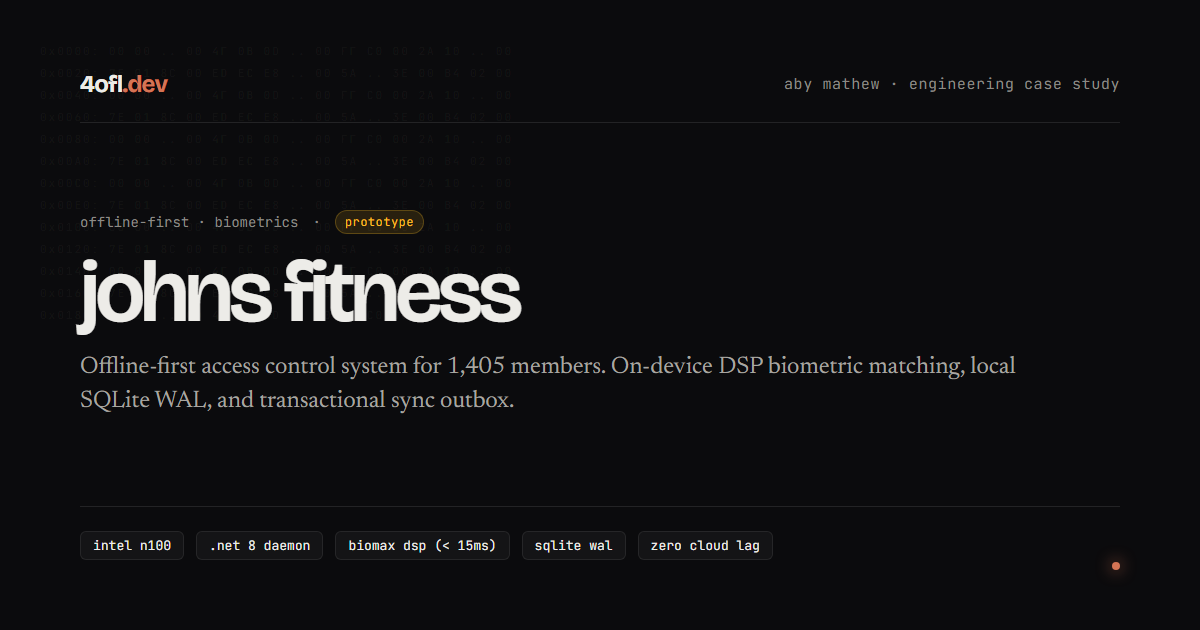
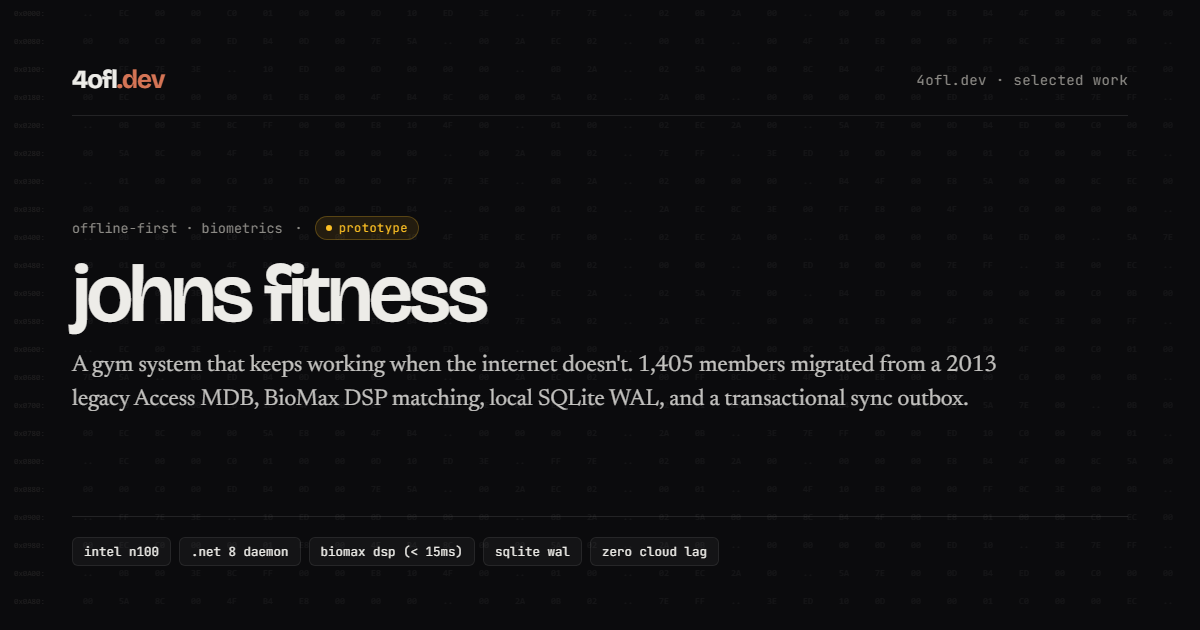
feat: add open graph social card generator and assets

diff --git a/scripts/build-og.js b/scripts/build-og.js
@@ -1,0 +1,313 @@
+const fs = require('fs');
+const path = require('path');
+const { execSync } = require('child_process');
+
+const CHROME_PATHS = [
+  'C:\\Program Files\\Google\\Chrome\\Application\\chrome.exe',
+  'C:\\Program Files (x86)\\Google\\Chrome\\Application\\chrome.exe',
+  path.join(process.env.LOCALAPPDATA || '', 'Google\\Chrome\\Application\\chrome.exe')
+];
+
+const chromePath = CHROME_PATHS.find(p => fs.existsSync(p));
+if (!chromePath) {
+  console.error('Error: Google Chrome executable not found on host machine.');
+  process.exit(1);
+}
+
+const dataFile = path.resolve('data/og-cards.json');
+if (!fs.existsSync(dataFile)) {
+  console.error(`Error: Data file not found at ${dataFile}`);
+  process.exit(1);
+}
+
+const cardsData = JSON.parse(fs.readFileSync(dataFile, 'utf8'));
+
+function renderHtml(itemKey, item) {
+  const isHome = itemKey === 'home';
+  const fontsDir = path.resolve('assets/fonts').replace(/\\/g, '/');
+
+  return `<!doctype html>
+<html>
+<head>
+<meta charset="utf-8">
+<style>
+  @font-face {
+    font-family: 'Bricolage Grotesque';
+    src: url('file:///${fontsDir}/bricolage-grotesque.woff2') format('woff2');
+  }
+  @font-face {
+    font-family: 'JetBrains Mono';
+    src: url('file:///${fontsDir}/jetbrains-mono-400.woff2') format('woff2');
+  }
+  @font-face {
+    font-family: 'Newsreader';
+    src: url('file:///${fontsDir}/newsreader-400.woff2') format('woff2');
+  }
+
+  * { box-sizing: border-box; margin: 0; padding: 0; }
+  body {
+    width: 1200px;
+    height: 630px;
+    background: #0b0b0d;
+    color: #edece8;
+    position: relative;
+    overflow: hidden;
+    margin: 0;
+    padding: 64px 72px;
+    display: flex;
+    flex-direction: column;
+    justify-content: space-between;
+  }
+
+  #bg {
+    position: absolute;
+    top: 0;
+    left: 0;
+    width: 1200px;
+    height: 630px;
+    z-index: 1;
+    pointer-events: none;
+  }
+
+  .content {
+    position: relative;
+    z-index: 2;
+    display: flex;
+    flex-direction: column;
+    height: 100%;
+    justify-content: space-between;
+  }
+
+  .top-bar {
+    display: flex;
+    justify-content: space-between;
+    align-items: center;
+    border-bottom: 1px solid rgba(255, 255, 255, 0.1);
+    padding-bottom: 20px;
+  }
+  .brand {
+    font-family: 'Bricolage Grotesque', sans-serif;
+    font-weight: 700;
+    font-size: 26px;
+    letter-spacing: -0.04em;
+    color: #edece8;
+  }
+  .brand i {
+    font-style: normal;
+    color: #d47455;
+  }
+  .top-sub {
+    font-family: 'JetBrains Mono', monospace;
+    font-size: 14px;
+    color: #8c8a85;
+    letter-spacing: 0.03em;
+  }
+
+  .main-block {
+    display: flex;
+    flex-direction: column;
+    gap: 16px;
+    margin: auto 0;
+  }
+
+  .badge-row {
+    display: flex;
+    align-items: center;
+    gap: 12px;
+    font-family: 'JetBrains Mono', monospace;
+    font-size: 13.5px;
+  }
+  .cat-text {
+    color: #8c8a85;
+  }
+  .status-pill {
+    display: inline-flex;
+    align-items: center;
+    gap: 7px;
+    padding: 3px 10px;
+    border-radius: 99px;
+    font-size: 12px;
+    letter-spacing: 0.04em;
+    font-style: normal;
+  }
+  .status-pill::before {
+    content: "";
+    width: 6px;
+    height: 6px;
+    border-radius: 50%;
+  }
+  .st-live {
+    background: rgba(111, 207, 142, 0.1);
+    color: #6fcf8e;
+    border: 1px solid rgba(111, 207, 142, 0.25);
+  }
+  .st-live::before { background: #6fcf8e; }
+
+  .st-prototype {
+    background: rgba(251, 191, 36, 0.1);
+    color: #fbbf24;
+    border: 1px solid rgba(251, 191, 36, 0.25);
+  }
+  .st-prototype::before { background: #fbbf24; }
+
+  .st-concept {
+    background: rgba(167, 139, 250, 0.1);
+    color: #a78bfa;
+    border: 1px solid rgba(167, 139, 250, 0.25);
+  }
+  .st-concept::before { background: #a78bfa; }
+
+  .title {
+    font-family: 'Bricolage Grotesque', sans-serif;
+    font-size: ${isHome ? '96px' : '82px'};
+    font-weight: 600;
+    letter-spacing: -0.05em;
+    line-height: 0.94;
+    color: #edece8;
+  }
+
+  .desc {
+    font-family: 'Newsreader', Georgia, serif;
+    font-size: 23px;
+    line-height: 1.45;
+    color: rgba(237, 236, 232, 0.82);
+    max-width: 960px;
+  }
+
+  .footer-bar {
+    display: flex;
+    justify-content: space-between;
+    align-items: center;
+    border-top: 1px solid rgba(255, 255, 255, 0.1);
+    padding-top: 20px;
+    font-family: 'JetBrains Mono', monospace;
+    font-size: 13px;
+  }
+  .tags-list {
+    display: flex;
+    gap: 8px;
+    align-items: center;
+  }
+  .tag-item {
+    background: rgba(255, 255, 255, 0.04);
+    border: 1px solid rgba(255, 255, 255, 0.08);
+    padding: 5px 11px;
+    border-radius: 6px;
+    color: #edece8;
+    font-size: 12.5px;
+  }
+</style>
+</head>
+<body>
+  <canvas id="bg" width="1200" height="630"></canvas>
+
+  <div class="content">
+    <div class="top-bar">
+      <div class="brand">4ofl<i>.dev</i></div>
+      <div class="top-sub">${item.brand || 'aby mathew · 4ofl.dev'}</div>
+    </div>
+
+    <div class="main-block">
+      ${item.category ? `
+        <div class="badge-row">
+          <span class="cat-text">${item.category}</span>
+          <span class="cat-text">·</span>
+          <span class="status-pill st-${item.statusType || 'live'}">${item.status}</span>
+        </div>
+      ` : item.badge ? `
+        <div class="badge-row">
+          <span class="cat-text">${item.badge}</span>
+        </div>
+      ` : ''}
+      <div class="title">${item.title}</div>
+      <div class="desc">${item.description}</div>
+    </div>
+
+    <div class="footer-bar">
+      <div class="tags-list">
+        ${(item.tags || []).map(t => `<span class="tag-item">${t}</span>`).join('')}
+      </div>
+    </div>
+  </div>
+
+  <script>
+    // Draw complete, edge-to-edge memory hex dump canvas (clean subtle grey)
+    const cv = document.getElementById('bg');
+    const g = cv.getContext('2d');
+    const W = cv.width;
+    const H = cv.height;
+
+    const SEED_BYTES = [
+      "00", "00", "..", "00", "4F", "0B", "0D", "..",
+      "00", "FF", "C0", "00", "2A", "10", "..", "00",
+      "7E", "01", "8C", "00", "ED", "EC", "E8", "..",
+      "00", "5A", "..", "3E", "00", "B4", "02", "00",
+    ];
+
+    const gapX = 36;
+    const gapY = 28;
+    const nCols = Math.floor(W / gapX);
+    const nRows = Math.floor(H / gapY);
+
+    // 1. Left-edge Memory Address Gutter
+    g.font = '8px "JetBrains Mono", monospace';
+    g.textAlign = 'left';
+    g.textBaseline = 'middle';
+    g.fillStyle = 'rgba(140, 138, 133, 0.16)';
+    for (let r = 0; r < nRows; r++) {
+      const addrNum = r * 32 * 4;
+      const addr = "0x" + addrNum.toString(16).toUpperCase().padStart(4, "0") + ":";
+      g.fillText(addr, 14, (r + 0.5) * gapY);
+    }
+
+    // 2. Uniform Subtle Grey Hex Dump Cells Across the ENTIRE Viewport
+    g.font = '9px "JetBrains Mono", monospace';
+    g.textAlign = 'center';
+    g.fillStyle = 'rgba(237, 236, 232, 0.05)';
+
+    for (let r = 0; r < nRows; r++) {
+      for (let c = 2; c < nCols; c++) {
+        const x = c * gapX + 16;
+        const y = (r + 0.5) * gapY;
+        const val = SEED_BYTES[((r * 13 + c * 7) ^ (r * 3)) % SEED_BYTES.length];
+        g.fillText(val, x, y);
+      }
+    }
+  </script>
+</body>
+</html>`;
+}
+
+async function build() {
+  const tmpDir = path.resolve('scratch_og_temp');
+  if (!fs.existsSync(tmpDir)) fs.mkdirSync(tmpDir, { recursive: true });
+
+  const keys = Object.keys(cardsData);
+  console.log(`Building ${keys.length} OG social card images from ${dataFile}...`);
+
+  for (const key of keys) {
+    const item = cardsData[key];
+    const html = renderHtml(key, item);
+    const htmlFile = path.join(tmpDir, `${key}.html`);
+    const outFile = path.resolve('assets', item.filename || `og-${key}.png`);
+
+    fs.writeFileSync(htmlFile, html, 'utf8');
+
+    console.log(`- Compiling ${item.filename}...`);
+    const cmd = `"${chromePath}" --headless --disable-gpu --force-device-scale-factor=1 --window-size=1200,630 --screenshot="${outFile}" "file://${htmlFile.replace(/\\/g, '/')}"`;
+    execSync(cmd, { stdio: 'pipe' });
+
+    const stat = fs.statSync(outFile);
+    console.log(`  ✓ ${outFile} (${(stat.size / 1024).toFixed(1)} KB)`);
+  }
+
+  // Cleanup temp files
+  fs.rmSync(tmpDir, { recursive: true, force: true });
+  console.log('Done! All OG cards generated from JSON.');
+}
+
+build().catch(err => {
+  console.error(err);
+  process.exit(1);
+});
+
